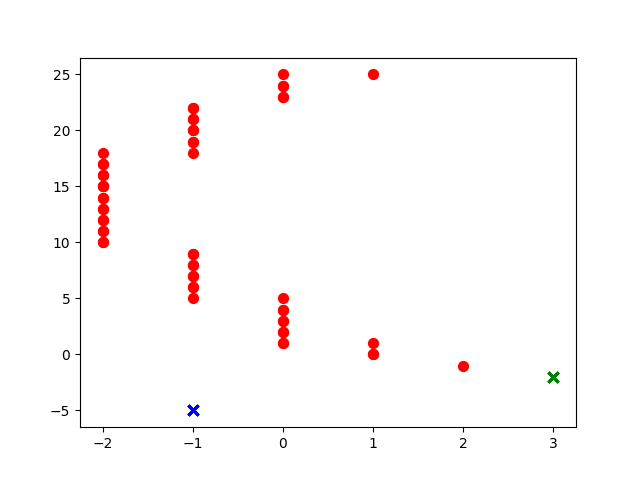
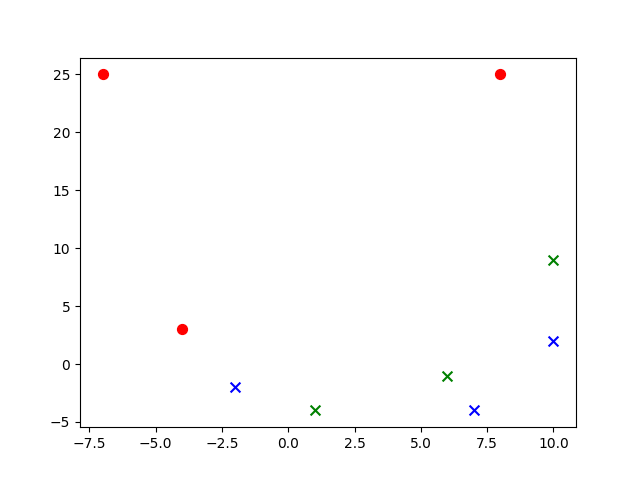
nothing works, value iteration kinda does

diff --git a/gym_examples/src/dubin.py b/gym_examples/src/dubin.py
@@ -17,7 +17,7 @@ class DubinsCarEnv(gym.Env):
         self.min_distance_to_obstacle = 0.1 # minimum distance to obstacle to consider the task as done
         self.timestep = 0.1 # timestep in seconds
         self.v_max = 1 # maximum speed
-        self.omega_max = 1 # maximum angular velocity (radians)
+        self.omega_max = .524  # maximum angular velocity (radians)
         
     def step(self, action):
         """
@@ -54,6 +54,47 @@ class DubinsCarEnv(gym.Env):
             done = True
 
         return np.append(self.car_position, [self.car_orientation]), reward, done, {}
+
+
+    def state_step(self, state, action):
+        """
+        Perform the action and return the next state, reward and done flag
+        """
+        v = self.v_max # speed of the car
+        omega = self.omega_max # angular velocity of the car
+        if action == 0: # turn left
+            omega = -omega
+        elif action == 2: # turn right
+            omega = omega
+        else: # action 1 : straight
+            omega = 0
+
+
+        car_orientation = state[2]
+        car_position = state[:2]
+        # update car position and orientation
+        car_orientation += omega * self.timestep
+        car_position[0] += v * np.cos(car_orientation) * self.timestep
+        car_position[1] += v * np.sin(car_orientation) * self.timestep
+
+        # check if the car is out of bounds
+        if car_position[0] < observation_space.low[0] or car_position[0] > self.observation_space.high[0] or car_position[1] < self.observation_space.low[1] or car_position[1] > self.observation_space.high[1]:
+            return np.append(car_position, [car_orientation]), 0, True, {}
+        # calculate distance to goal and obstacle
+        dist_goal = np.linalg.norm(car_position - self.goal_position)
+        dist_obstacle = np.linalg.norm(car_position - self.obstacle_position) - self.obstacle_radius
+        if car_orientation < self.observation_space.low[2] or car_orientation > self.observation_space.high[2]:
+            return np.append(car_position, [car_orientation]), 0, True, {}
+        # calculate reward
+        reward = -dist_goal - dist_obstacle
+
+        # check if done
+        done = False
+        if dist_goal < self.min_distance_to_goal or dist_obstacle < self.min_distance_to_obstacle:
+            done = True
+
+        return np.append(car_position, [car_orientation]), reward, done, {}
+            
             
     def reset(self):
         """
@@ -112,7 +153,7 @@ class DubinsCarEnv(gym.Env):
 
 
 
-class TileCoder:
+class TileCoderDep:
     def __init__(self, num_tiles, x_range, y_range, num_tilings, offset=None):
         """
         Initialize the tile coder
@@ -186,6 +227,100 @@ class TileCoder:
    
 
 
+class TileCoder:
+    def __init__(self, num_tiles, x_range, y_range, theta_range, num_tilings, offset=None):
+        """
+        Initialize the tile coder
+        :param num_tiles: number of tiles for each dimension of the state space
+        :param x_range: range of the x dimension of the state space
+        :param y_range: range of the y dimension of the state space
+        :param num_tilings: number of tilings to use
+        :param offset: offset for each tiling
+        """
+        self.num_tiles = num_tiles
+        self.x_range = x_range
+        self.y_range = y_range
+        self.theta_range = theta_range
+        self.num_tilings = num_tilings
+        self.tiles = np.zeros((num_tiles, num_tiles, num_tiles, num_tilings))
+        self.x_tile_size = (x_range[1] - x_range[0]) / num_tiles
+        self.y_tile_size = (y_range[1] - y_range[0]) / num_tiles
+        self.theta_tile_size = (theta_range[1] - theta_range[0]) / num_tiles
+
+        self.offsets = offset or np.random.rand(num_tilings, 3)
+
+    def discretize(self, state):
+        """
+        Discretize the state into a tile
+        :param state: continuous state [x, y, theta]
+        :return: discrete state [i, j, theta]
+        """
+        i = np.zeros((self.num_tilings,))
+        j = np.zeros((self.num_tilings,))
+        k = np.zeros((self.num_tilings,))
+
+        for tiling_idx in range(self.num_tilings):
+            i[tiling_idx] = np.floor((state[0] + self.offsets[tiling_idx][0]) / self.x_tile_size)
+            j[tiling_idx] = np.floor((state[1] + self.offsets[tiling_idx][1]) / self.y_tile_size)
+            k[tiling_idx] = np.floor((state[2] + self.offsets[tiling_idx][2]) / self.theta_tile_size)
+
+        return i.astype(int), j.astype(int), k.astype(int)
+
+    def continuize(self, i, j, k, tile):
+        """
+        Discretize the state into a tile
+        :param state: continuous state [x, y, theta]
+        :return: discrete state [i, j, theta]
+        """
+        x = i * self.x_tile_size + self.offsets[tile][0]
+        y = j * self.y_tile_size + self.offsets[tile][1]
+        theta = k * self.theta_tile_size + self.offsets[tile][2]
+
+        return x, y, theta
+
+
+
+    def reset(self):
+        """
+        Reset the tile coder
+        """
+        self.tiles = np.zeros((self.num_tiles, self.num_tiles, self.num_tilings))
+
+    def activate(self, state):
+        """
+        Activate the tiles that correspond to the state
+        :param state: continuous state [x, y, theta]
+        :return: binary array of shape (num_tiles, num_tiles, num_tilings)
+        """
+        i, j, _ = self.discretize(state)
+        i = np.floor(np.clip(i, 0, self.num_tiles - 1)).astype(int)
+        j = np.floor(np.clip(j, 0, self.num_tiles - 1)).astype(int)
+        for tiling in range(self.num_tilings):
+            self.tiles[i, j, tiling] = 1
+        return self.tiles
+
+
+    def render(self, state, goal_pos, obstacle_pos):
+        """
+        Render the trajectory of the Dubins car on the discretized state space
+        :param states: sequence of continuous states of the Dubins car
+        :param goal_pos: continuous goal position [x, y]
+        :param obstacle_pos: continuous obstacle position [x, y]
+        """
+        import matplotlib.pyplot as plt
+        #plt.imshow(np.zeros((self.num_tiles, self.num_tiles)), cmap='gray', origin='lower')
+        x, y, _ = self.discretize(state)
+        plt.scatter(x, y, c='r', s=50)
+        g_x, g_y, _ = self.discretize(np.append(goal_pos, [0]))
+        o_x, o_y, _ = self.discretize(np.append(obstacle_pos, [0]))
+        plt.scatter(g_x, g_y, c='g', s=50, marker='x')
+        plt.scatter(o_x, o_y, c='b', s=50, marker='x')
+
+        plt.savefig("disc.png")
+   
+
+
+
 
 
 
@@ -195,48 +330,50 @@ class TileCoder:
 
 
 class ValueIteration:
-    def __init__(self, env, tc, discount_factor=0.99, theta=1e-8):
-        """
-        Initialize the value iteration algorithm
-
-        Parameters
-        ----------
-        env : gym.Env
-            The environment to solve
-        tc : TileCoder
-            The tile coder to use for discretizing the state space
-        discount_factor : float, optional
-            The discount factor, by default 0.99
-        theta : float, optional
-            The stopping criterion, by default 1e-8
-        """
+    def __init__(self, env, tc, discount_factor=0.99, max_iterations=1000, epsilon=1e-1):
         self.env = env
         self.tc = tc
         self.discount_factor = discount_factor
-        self.theta = theta
-        self.n_states = np.prod(tc.ntiles) * tc.ntilings
-        self.values = np.zeros((self.n_states))
-        self.policy = np.zeros((self.n_states))
-        
+        self.max_iterations = max_iterations
+        self.epsilon = epsilon
+        self.value_table = np.zeros((tc.num_tiles, tc.num_tiles, tc.num_tiles, tc.num_tilings))
+
     def solve(self):
-        """
-        Solve the environment using value iteration
-        """
-        while True:
+        for i in range(self.max_iterations):
             delta = 0
-            for state in range(self.n_states):
-                state_indices = self.tc.get_tile_indices(self.env.state_to_obs(state))
-                v = self.values[state_indices]
-                action_values = []
-                for action in range(self.env.action_space.n):
-                    next_state_indices, reward, done, _ = self.env.step(action)
-                    action_values.append(reward + self.discount_factor * self.values[next_state_indices])
-                new_v = np.max(action_values)
-                delta = max(delta, np.abs(v - new_v))
-                self.values[state_indices] = new_v
-                self.policy[state_indices] = np.argmax(action_values)
-            if delta < self.theta:
+            for x in range(self.tc.num_tiles):
+                for y in range(self.tc.num_tiles):
+                    for theta in range(self.tc.num_tiles):
+                        for tile in range(self.tc.num_tilings):
+
+                            old_value = self.value_table[x, y, theta, tile].copy()
+                            for action in range(self.env.action_space.n):
+                                next_state, reward, done, _ = self.env.step(action)
+                                next_x, next_y, next_theta = self.tc.discretize(next_state)
+                                self.value_table[x, y, theta, tile] = reward + self.discount_factor * np.max(self.value_table[next_x[tile], next_y[tile], next_theta[tile], tile])
+                            delta = max(delta, np.abs(old_value - self.value_table[x, y, theta, tile]).max())
+                            print(delta)
+            if delta < self.epsilon:
+                print(f'Value iteration converged at iteration {i+1}')
                 break
+        return self.value_table
+
+    def get_policy(self):
+        policy = np.zeros((self.tc.num_tiles, self.tc.num_tiles, self.tc.num_tiles))
+        for x in range(self.tc.num_tiles):
+            for y in range(self.tc.num_tiles):
+                for theta in range(self.tc.num_tiles):
+                    actions_value = []
+                    for action in range(self.env.action_space.n):
+                        next_state, reward, done, _ = self.env.step(action)
+                        next_x, next_y, next_theta = self.tc.discretize(next_state)
+                        actions_value.append(np.mean(reward + self.discount_factor * self.value_table[next_x, next_y, next_theta, :]))
+                    policy[x, y, theta] = np.argmax(actions_value)
+        return policy
+
+
+
+
 
 
 
@@ -261,31 +398,38 @@ import numpy as np
 env = DubinsCarEnv()
 
 # Create an instance of the TileCoder
-num_tiles = 50
+num_tiles = 20
 x_range = env.observation_space.low[0], env.observation_space.high[0]
 y_range = env.observation_space.low[1], env.observation_space.high[1]
+theta_range = env.observation_space.low[2], env.observation_space.high[2]
+
 num_tilings = 1
-tile_coder = TileCoder(num_tiles, x_range, y_range, num_tilings)
+tile_coder = TileCoder(num_tiles, x_range, y_range, theta_range, num_tilings)
 
-# Run the agent for some episodes
-num_episodes = 3
-for episode in range(num_episodes):
-    # Reset the environment and get the initial state
-    state = env.reset()
-    states = [state]
-    goal_pos = env.goal_position
-    obstacle_pos = env.obstacle_position
-    print('l')
-    done = False
-    while not done:
-        # Choose a random action
-        action = env.action_space.sample()
+# # Run the agent for some episodes
+# num_episodes = 3
+# for episode in range(num_episodes):
+#     # Reset the environment and get the initial state
+#     state = env.reset()
+#     states = [state]
+#     goal_pos = env.goal_position
+#     obstacle_pos = env.obstacle_position
+#     print('l')
+#     done = False
+#     while not done:
+#         # Choose a random action
+#         action = env.action_space.sample()
 
-        # Take the action and get the next state, reward, done flag, and info
-        state, reward, done, _ = env.step(action)
-        tile_coder.activate(state)
+#         # Take the action and get the next state, reward, done flag, and info
+#         state, reward, done, _ = env.step(action)
+#         tile_coder.activate(state)
 
-        states.append(state)
+#         states.append(state)
 
-    # Render the trajectory of the Dubins car on the discretized state space
-        tile_coder.render(state, goal_pos, obstacle_pos)
+#     # Render the trajectory of the Dubins car on the discretized state space
+#     tile_coder.render(state, goal_pos, obstacle_pos)
+
+
+vi = ValueIteration(env, tile_coder)
+vi.solve()
+print(vi.get_policy())
